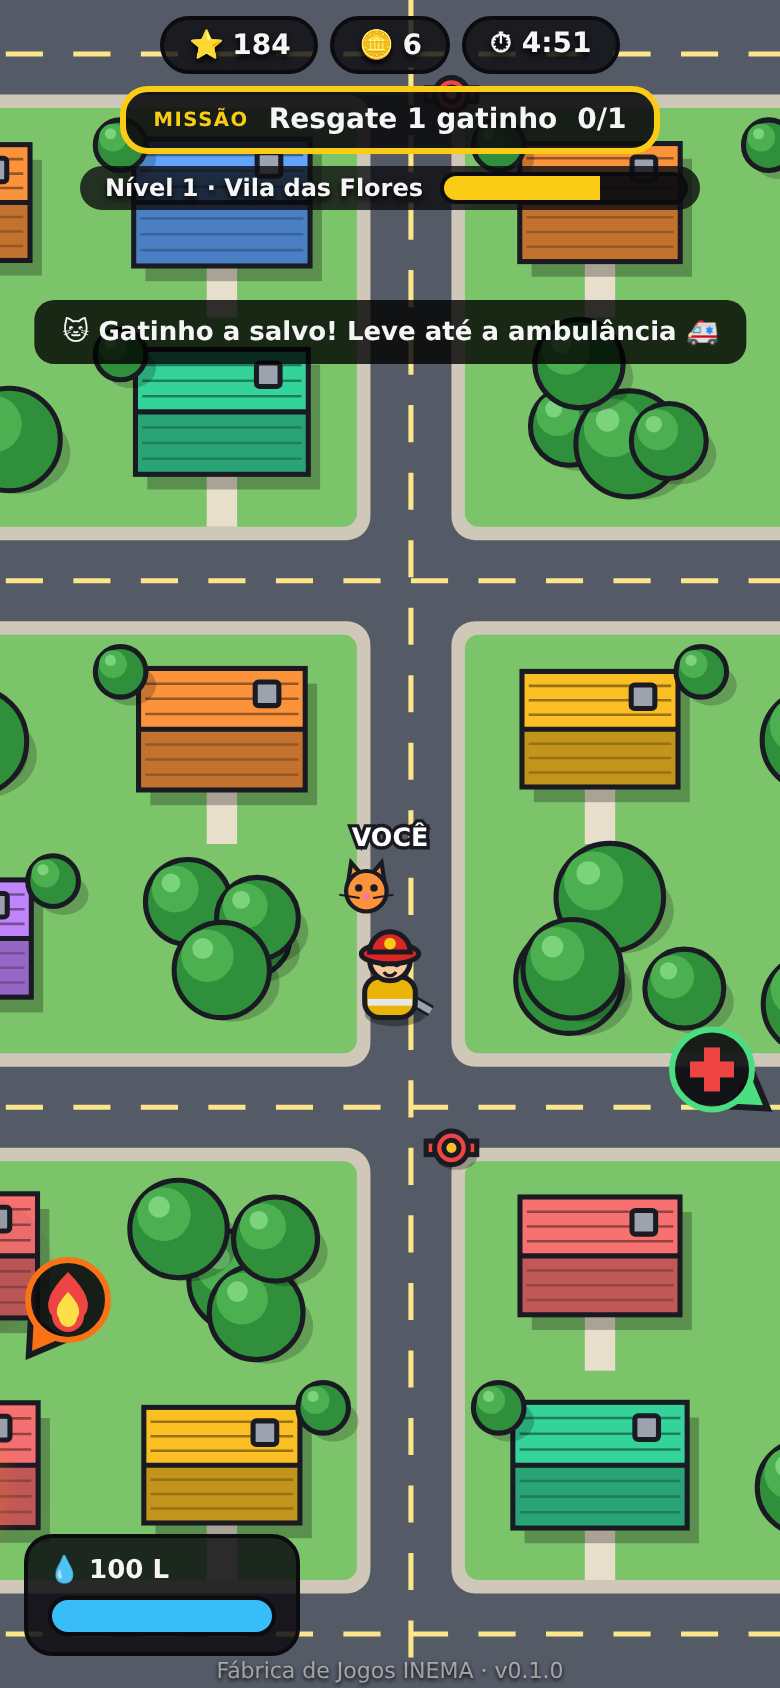
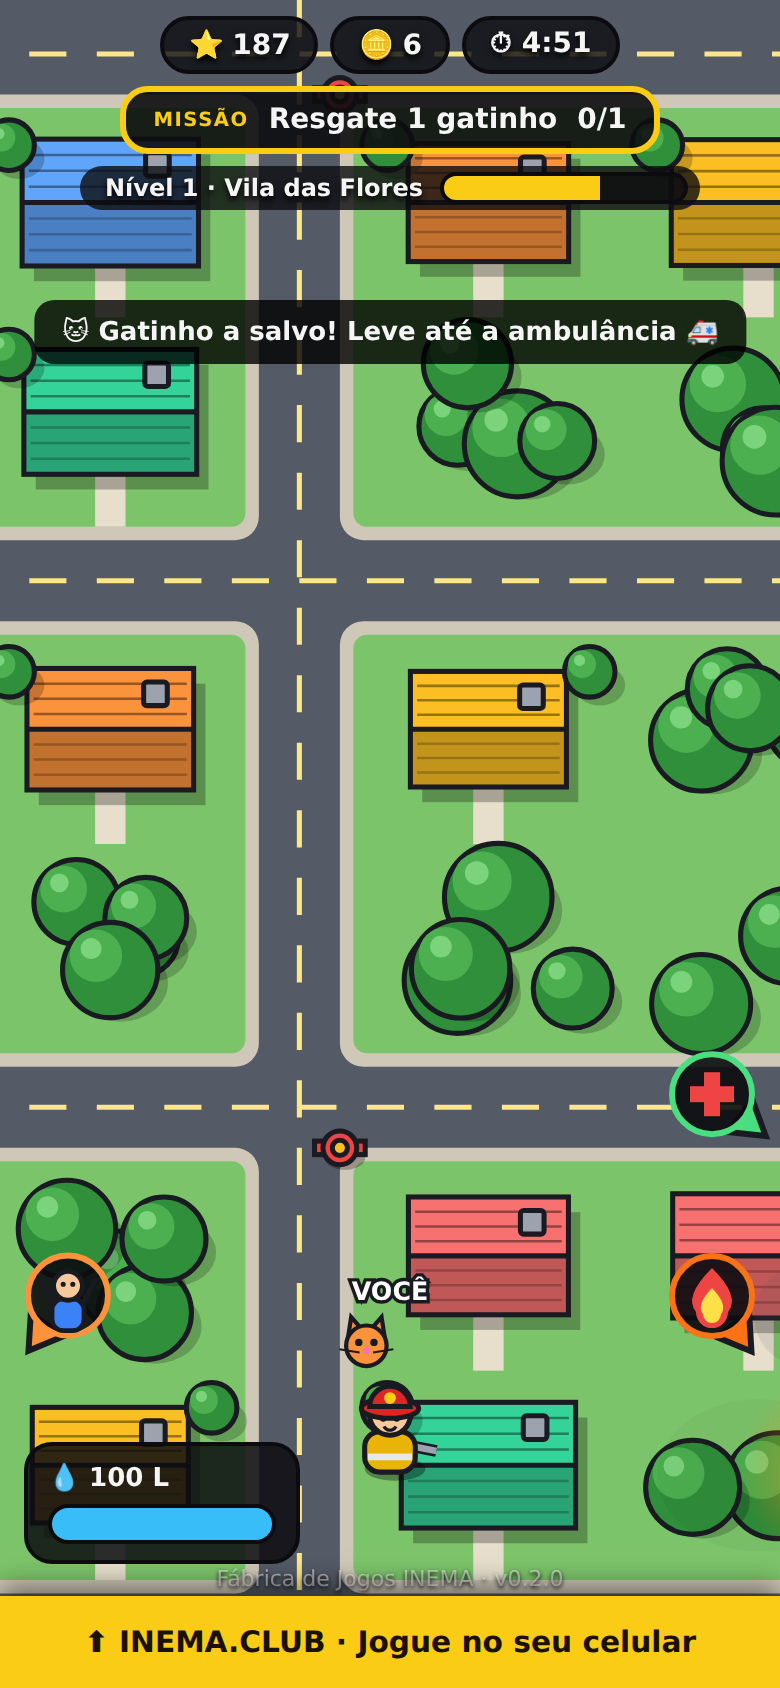
bombeiro v0.2.0: painel INEMA.CLUB + QR embaixo do jogo

diff --git a/10-fabrica-de-jogos/jogos/seja-um-bombeiro/index.html b/10-fabrica-de-jogos/jogos/seja-um-bombeiro/index.html
@@ -6,11 +6,14 @@
 <title>Seja um Bombeiro — Fábrica de Jogos INEMA</title>
 <style>
   :root { --amarelo:#FACC15; --preto:#0c0c10; --texto:#f5f5f5; --agua:#38bdf8 }
-  html,body { margin:0; height:100%; background:var(--preto); color:var(--texto); overflow:hidden;
-              touch-action:none; user-select:none; -webkit-user-select:none; font-family:system-ui,-apple-system,"Segoe UI",sans-serif }
-  canvas { display:block; width:100vw; height:100vh }
+  /* a página rola (para mostrar o painel INEMA.CLUB embaixo), mas o jogo fica fixo atrás */
+  html { overflow-x:hidden; overflow-y:auto; overscroll-behavior:none }
+  html,body { margin:0; background:var(--preto); color:var(--texto);
+              touch-action:pan-y; user-select:none; -webkit-user-select:none; font-family:system-ui,-apple-system,"Segoe UI",sans-serif }
+  /* só o canvas trava o gesto: arrastar nele move o bombeiro, não rola a página */
+  #c { display:block; position:fixed; inset:0; width:100vw; height:100vh; touch-action:none }
   /* ---- placar no topo ---- */
-  #hud { position:fixed; top:8px; left:8px; right:8px; display:flex; flex-direction:column; align-items:center; gap:6px; pointer-events:none }
+  #hud { position:fixed; top:8px; left:8px; right:8px; display:flex; flex-direction:column; align-items:center; gap:6px; pointer-events:none; z-index:2 }
   #hud .linha { display:flex; gap:6px; justify-content:center; flex-wrap:wrap }
   .pilula { background:#0c0c10cc; border:2px solid #0c0c10; border-radius:999px; padding:4px 12px; font-weight:800;
             font-size:clamp(14px,2.2vw,20px); text-shadow:0 2px 3px #000; white-space:nowrap }
@@ -23,15 +26,15 @@
   #xp { background:#0c0c10cc; border-radius:999px; padding:3px 6px 3px 12px; display:flex; align-items:center; gap:8px; font-weight:800; font-size:clamp(12px,1.9vw,16px); text-shadow:0 2px 3px #000 }
   .barra { width:clamp(120px,26vw,260px); height:12px; background:#0c0c10cc; border:2px solid #0c0c10; border-radius:999px; overflow:hidden }
   .barra i { display:block; height:100%; width:0; background:var(--amarelo); transition:width .25s }
-  /* ---- tanque de água (embaixo à esquerda) ---- */
-  #tanque { position:fixed; left:12px; bottom:16px; background:#0c0c10d9; border:2px solid #0c0c10; border-radius:14px; padding:8px 10px;
+  /* ---- tanque de água (embaixo à esquerda, acima da faixa amarela de 46 px) ---- */
+  #tanque { position:fixed; left:12px; bottom:62px; z-index:2; background:#0c0c10d9; border:2px solid #0c0c10; border-radius:14px; padding:8px 10px;
             font-weight:800; font-size:clamp(13px,2vw,17px); pointer-events:none; display:flex; flex-direction:column; gap:5px }
   #tanque .barra { width:clamp(110px,22vw,200px); height:16px }
   #tanque .barra i { background:var(--agua) }
   #tanque.vazio { border-color:#ef4444; animation:pisca .8s infinite }
   @keyframes pisca { 50%{ background:#7f1d1dd9 } }
-  /* ---- botões (embaixo à direita) ---- */
-  #botoes { position:fixed; right:12px; bottom:16px; display:flex; flex-direction:column; align-items:flex-end; gap:10px }
+  /* ---- botões (embaixo à direita, acima da faixa amarela) ---- */
+  #botoes { position:fixed; right:12px; bottom:62px; z-index:2; display:flex; flex-direction:column; align-items:flex-end; gap:10px }
   .btn { background:var(--amarelo); color:#1a1206; border:0; border-radius:12px; font-weight:800;
          padding:12px 16px; font-size:clamp(14px,2vw,17px); cursor:pointer; box-shadow:0 4px 0 #a16207 }
   .btn:disabled { background:#555; color:#bbb; box-shadow:none }
@@ -54,7 +57,22 @@
   #banner.on { opacity:1; transform:translate(-50%,-50%) scale(1) }
   #banner b { display:block; font-size:clamp(40px,9vw,80px); color:var(--amarelo); -webkit-text-stroke:3px #0c0c10; text-shadow:0 5px 0 #0c0c10 }
   #banner span { display:inline-block; margin-top:6px; background:#0c0c10e6; border-radius:12px; padding:8px 14px; font-weight:800; font-size:clamp(16px,3vw,24px) }
-  #rodape { position:fixed; left:0; right:0; bottom:2px; text-align:center; font-size:11px; color:#ffffff88; pointer-events:none; text-shadow:0 1px 2px #000 }
+  #rodape { position:fixed; left:0; right:0; bottom:48px; z-index:2; text-align:center; font-size:11px; color:#ffffff88; pointer-events:none; text-shadow:0 1px 2px #000 }
+  /* ---- painel INEMA.CLUB embaixo do jogo (toque na faixa amarela ou deslize a tela para cima) ---- */
+  #rolagem { position:relative; z-index:4; pointer-events:none }
+  #espaco { height:calc(100vh - 46px); height:calc(100dvh - 46px) }
+  #painel { pointer-events:auto; background:var(--preto); touch-action:pan-y; text-align:center; padding-bottom:28px }
+  #puxador { display:block; width:100%; height:46px; border:0; background:var(--amarelo); color:#1a1206; cursor:pointer;
+             font:800 clamp(14px,3.8vw,18px)/46px Sora,system-ui,sans-serif; box-shadow:0 -4px 14px #0008 }
+  #painel .faixa-g { background:var(--amarelo); color:#1a1206; font:800 clamp(24px,7vw,44px)/1.15 Sora,system-ui,sans-serif;
+                     padding:22px 16px 26px; border-top:4px solid var(--preto) }
+  #painel .faixa-g b { display:inline-block; background:var(--preto); color:var(--amarelo); padding:2px 14px; border-radius:10px; margin-top:8px }
+  #painel .qr-g { display:inline-block; background:#fff; color:#111; border-radius:16px; padding:14px 14px 10px; margin:22px 16px 10px }
+  #painel .qr-g svg { width:min(64vw,260px); height:auto; display:block }
+  #painel .qr-g p { margin:8px 0 0; font-weight:800 }
+  #painel .acoes-p { display:flex; gap:10px; justify-content:center; flex-wrap:wrap; margin:12px 16px }
+  #painel .txt-p { color:#d4d4d8; max-width:520px; margin:10px auto 0; padding:0 16px; line-height:1.5 }
+  #painel a { color:var(--amarelo) }
   .hidden { display:none !important }
   pre { text-align:left; background:#0b0b0f; padding:10px; border-radius:10px; overflow:auto; max-height:40vh; font-size:12px; white-space:pre-wrap }
 </style>
@@ -73,12 +91,29 @@
 </div>
 <div id="aviso"></div>
 <div id="banner"><b id="banner-t"></b><span id="banner-s"></span></div>
-<div id="rodape">Fábrica de Jogos INEMA · v0.1.0</div>
+<div id="rodape">Fábrica de Jogos INEMA · v0.2.0</div>
+<div id="rolagem">
+  <div id="espaco"></div>
+  <div id="painel">
+    <button id="puxador">⬆ INEMA.CLUB · Jogue no seu celular</button>
+    <div class="faixa-g">Aprenda a criar jogos com IA<br>de graça<br><b>INEMA.CLUB</b></div>
+    <div class="qr-g"><div id="qr-painel"></div><p>📱 Jogue no seu celular</p></div>
+    <div class="acoes-p">
+      <button class="btn" id="p-baixar">⬇ Baixar o jogo</button>
+      <button class="btn sec" id="p-voltar">⬆ Voltar ao jogo</button>
+    </div>
+    <p class="txt-p">Baixe o jogo, abra num editor de texto e mude o <b>CONFIG</b>: velocidade, tanque, missões e bairros.
+      Depois peça para uma IA criar um cachorro bombeiro, bairros e veículos novos.
+      Mais jogos na <a href="../../">Fábrica de Jogos INEMA</a> · cursos grátis em <a href="https://inema.club" target="_blank" rel="noopener">inema.club</a></p>
+  </div>
+</div>
 <div id="tela"><div class="caixa" id="tela-conteudo"></div></div>
+<!-- QR code com o endereço do jogo (vem do arquivo qr-jogo.svg; fica aqui dentro para funcionar sem internet) -->
+<template id="tpl-qr"><svg version="1.1" viewBox="0 0 41 41" xmlns="http://www.w3.org/2000/svg"><path d="M2,2H3V3H2zM3,2H4V3H3zM4,2H5V3H4zM5,2H6V3H5zM6,2H7V3H6zM7,2H8V3H7zM8,2H9V3H8zM10,2H11V3H10zM11,2H12V3H11zM12,2H13V3H12zM15,2H16V3H15zM16,2H17V3H16zM17,2H18V3H17zM18,2H19V3H18zM19,2H20V3H19zM20,2H21V3H20zM24,2H25V3H24zM26,2H27V3H26zM27,2H28V3H27zM28,2H29V3H28zM32,2H33V3H32zM33,2H34V3H33zM34,2H35V3H34zM35,2H36V3H35zM36,2H37V3H36zM37,2H38V3H37zM38,2H39V3H38zM2,3H3V4H2zM8,3H9V4H8zM15,3H16V4H15zM16,3H17V4H16zM17,3H18V4H17zM18,3H19V4H18zM20,3H21V4H20zM22,3H23V4H22zM26,3H27V4H26zM27,3H28V4H27zM32,3H33V4H32zM38,3H39V4H38zM2,4H3V5H2zM4,4H5V5H4zM5,4H6V5H5zM6,4H7V5H6zM8,4H9V5H8zM10,4H11V5H10zM11,4H12V5H11zM14,4H15V5H14zM17,4H18V5H17zM19,4H20V5H19zM20,4H21V5H20zM21,4H22V5H21zM23,4H24V5H23zM25,4H26V5H25zM26,4H27V5H26zM27,4H28V5H27zM30,4H31V5H30zM32,4H33V5H32zM34,4H35V5H34zM35,4H36V5H35zM36,4H37V5H36zM38,4H39V5H38zM2,5H3V6H2zM4,5H5V6H4zM5,5H6V6H5zM6,5H7V6H6zM8,5H9V6H8zM11,5H12V6H11zM13,5H14V6H13zM15,5H16V6H15zM17,5H18V6H17zM19,5H20V6H19zM20,5H21V6H20zM22,5H23V6H22zM23,5H24V6H23zM24,5H25V6H24zM27,5H28V6H27zM29,5H30V6H29zM30,5H31V6H30zM32,5H33V6H32zM34,5H35V6H34zM35,5H36V6H35zM36,5H37V6H36zM38,5H39V6H38zM2,6H3V7H2zM4,6H5V7H4zM5,6H6V7H5zM6,6H7V7H6zM8,6H9V7H8zM12,6H13V7H12zM15,6H16V7H15zM20,6H21V7H20zM24,6H25V7H24zM28,6H29V7H28zM32,6H33V7H32zM34,6H35V7H34zM35,6H36V7H35zM36,6H37V7H36zM38,6H39V7H38zM2,7H3V8H2zM8,7H9V8H8zM10,7H11V8H10zM12,7H13V8H12zM14,7H15V8H14zM15,7H16V8H15zM16,7H17V8H16zM17,7H18V8H17zM22,7H23V8H22zM24,7H25V8H24zM27,7H28V8H27zM28,7H29V8H28zM32,7H33V8H32zM38,7H39V8H38zM2,8H3V9H2zM3,8H4V9H3zM4,8H5V9H4zM5,8H6V9H5zM6,8H7V9H6zM7,8H8V9H7zM8,8H9V9H8zM10,8H11V9H10zM12,8H13V9H12zM14,8H15V9H14zM16,8H17V9H16zM18,8H19V9H18zM20,8H21V9H20zM22,8H23V9H22zM24,8H25V9H24zM26,8H27V9H26zM28,8H29V9H28zM30,8H31V9H30zM32,8H33V9H32zM33,8H34V9H33zM34,8H35V9H34zM35,8H36V9H35zM36,8H37V9H36zM37,8H38V9H37zM38,8H39V9H38zM11,9H12V10H11zM14,9H15V10H14zM17,9H18V10H17zM18,9H19V10H18zM20,9H21V10H20zM24,9H25V10H24zM25,9H26V10H25zM26,9H27V10H26zM28,9H29V10H28zM30,9H31V10H30zM2,10H3V11H2zM4,10H5V11H4zM8,10H9V11H8zM9,10H10V11H9zM12,10H13V11H12zM13,10H14V11H13zM21,10H22V11H21zM22,10H23V11H22zM26,10H27V11H26zM29,10H30V11H29zM30,10H31V11H30zM33,10H34V11H33zM36,10H37V11H36zM38,10H39V11H38zM3,11H4V12H3zM4,11H5V12H4zM6,11H7V12H6zM10,11H11V12H10zM12,11H13V12H12zM15,11H16V12H15zM20,11H21V12H20zM21,11H22V12H21zM22,11H23V12H22zM23,11H24V12H23zM24,11H25V12H24zM25,11H26V12H25zM26,11H27V12H26zM27,11H28V12H27zM29,11H30V12H29zM30,11H31V12H30zM32,11H33V12H32zM33,11H34V12H33zM36,11H37V12H36zM37,11H38V12H37zM38,11H39V12H38zM2,12H3V13H2zM4,12H5V13H4zM6,12H7V13H6zM7,12H8V13H7zM8,12H9V13H8zM10,12H11V13H10zM11,12H12V13H11zM14,12H15V13H14zM15,12H16V13H15zM16,12H17V13H16zM17,12H18V13H17zM19,12H20V13H19zM21,12H22V13H21zM22,12H23V13H22zM25,12H26V13H25zM26,12H27V13H26zM29,12H30V13H29zM31,12H32V13H31zM34,12H35V13H34zM36,12H37V13H36zM38,12H39V13H38zM6,13H7V14H6zM9,13H10V14H9zM10,13H11V14H10zM12,13H13V14H12zM15,13H16V14H15zM20,13H21V14H20zM21,13H22V14H21zM24,13H25V14H24zM25,13H26V14H25zM29,13H30V14H29zM30,13H31V14H30zM31,13H32V14H31zM33,13H34V14H33zM34,13H35V14H34zM35,13H36V14H35zM3,14H4V15H3zM7,14H8V15H7zM8,14H9V15H8zM9,14H10V15H9zM10,14H11V15H10zM11,14H12V15H11zM16,14H17V15H16zM17,14H18V15H17zM18,14H19V15H18zM21,14H22V15H21zM22,14H23V15H22zM24,14H25V15H24zM26,14H27V15H26zM30,14H31V15H30zM32,14H33V15H32zM33,14H34V15H33zM35,14H36V15H35zM38,14H39V15H38zM2,15H3V16H2zM3,15H4V16H3zM4,15H5V16H4zM10,15H11V16H10zM11,15H12V16H11zM12,15H13V16H12zM15,15H16V16H15zM17,15H18V16H17zM18,15H19V16H18zM21,15H22V16H21zM22,15H23V16H22zM25,15H26V16H25zM29,15H30V16H29zM30,15H31V16H30zM32,15H33V16H32zM33,15H34V16H33zM35,15H36V16H35zM38,15H39V16H38zM2,16H3V17H2zM4,16H5V17H4zM8,16H9V17H8zM9,16H10V17H9zM10,16H11V17H10zM14,16H15V17H14zM17,16H18V17H17zM18,16H19V17H18zM20,16H21V17H20zM21,16H22V17H21zM22,16H23V17H22zM23,16H24V17H23zM25,16H26V17H25zM26,16H27V17H26zM29,16H30V17H29zM30,16H31V17H30zM31,16H32V17H31zM35,16H36V17H35zM36,16H37V17H36zM38,16H39V17H38zM2,17H3V18H2zM3,17H4V18H3zM5,17H6V18H5zM6,17H7V18H6zM7,17H8V18H7zM9,17H10V18H9zM11,17H12V18H11zM13,17H14V18H13zM15,17H16V18H15zM16,17H17V18H16zM17,17H18V18H17zM18,17H19V18H18zM21,17H22V18H21zM24,17H25V18H24zM25,17H26V18H25zM28,17H29V18H28zM30,17H31V18H30zM32,17H33V18H32zM33,17H34V18H33zM34,17H35V18H34zM35,17H36V18H35zM38,17H39V18H38zM2,18H3V19H2zM7,18H8V19H7zM8,18H9V19H8zM11,18H12V19H11zM12,18H13V19H12zM14,18H15V19H14zM17,18H18V19H17zM18,18H19V19H18zM21,18H22V19H21zM22,18H23V19H22zM25,18H26V19H25zM26,18H27V19H26zM29,18H30V19H29zM30,18H31V19H30zM32,18H33V19H32zM33,18H34V19H33zM37,18H38V19H37zM38,18H39V19H38zM2,19H3V20H2zM3,19H4V20H3zM4,19H5V20H4zM6,19H7V20H6zM7,19H8V20H7zM9,19H10V20H9zM10,19H11V20H10zM11,19H12V20H11zM12,19H13V20H12zM18,19H19V20H18zM21,19H22V20H21zM22,19H23V20H22zM23,19H24V20H23zM25,19H26V20H25zM26,19H27V20H26zM29,19H30V20H29zM32,19H33V20H32zM37,19H38V20H37zM38,19H39V20H38zM2,20H3V21H2zM3,20H4V21H3zM4,20H5V21H4zM7,20H8V21H7zM8,20H9V21H8zM10,20H11V21H10zM13,20H14V21H13zM18,20H19V21H18zM20,20H21V21H20zM21,20H22V21H21zM25,20H26V21H25zM29,20H30V21H29zM34,20H35V21H34zM38,20H39V21H38zM2,21H3V22H2zM3,21H4V22H3zM4,21H5V22H4zM5,21H6V22H5zM11,21H12V22H11zM12,21H13V22H12zM13,21H14V22H13zM14,21H15V22H14zM17,21H18V22H17zM18,21H19V22H18zM20,21H21V22H20zM22,21H23V22H22zM24,21H25V22H24zM26,21H27V22H26zM28,21H29V22H28zM29,21H30V22H29zM32,21H33V22H32zM33,21H34V22H33zM35,21H36V22H35zM3,22H4V23H3zM4,22H5V23H4zM5,22H6V23H5zM6,22H7V23H6zM8,22H9V23H8zM9,22H10V23H9zM10,22H11V23H10zM16,22H17V23H16zM18,22H19V23H18zM20,22H21V23H20zM25,22H26V23H25zM26,22H27V23H26zM29,22H30V23H29zM32,22H33V23H32zM33,22H34V23H33zM35,22H36V23H35zM37,22H38V23H37zM2,23H3V24H2zM10,23H11V24H10zM11,23H12V24H11zM12,23H13V24H12zM13,23H14V24H13zM16,23H17V24H16zM17,23H18V24H17zM18,23H19V24H18zM19,23H20V24H19zM21,23H22V24H21zM22,23H23V24H22zM23,23H24V24H23zM25,23H26V24H25zM26,23H27V24H26zM27,23H28V24H27zM29,23H30V24H29zM30,23H31V24H30zM32,23H33V24H32zM37,23H38V24H37zM38,23H39V24H38zM2,24H3V25H2zM5,24H6V25H5zM6,24H7V25H6zM7,24H8V25H7zM8,24H9V25H8zM9,24H10V25H9zM10,24H11V25H10zM13,24H14V25H13zM14,24H15V25H14zM15,24H16V25H15zM17,24H18V25H17zM21,24H22V25H21zM22,24H23V25H22zM23,24H24V25H23zM25,24H26V25H25zM29,24H30V25H29zM35,24H36V25H35zM36,24H37V25H36zM38,24H39V25H38zM2,25H3V26H2zM4,25H5V26H4zM5,25H6V26H5zM10,25H11V26H10zM11,25H12V26H11zM12,25H13V26H12zM16,25H17V26H16zM18,25H19V26H18zM20,25H21V26H20zM22,25H23V26H22zM24,25H25V26H24zM26,25H27V26H26zM28,25H29V26H28zM31,25H32V26H31zM32,25H33V26H32zM33,25H34V26H33zM34,25H35V26H34zM35,25H36V26H35zM38,25H39V26H38zM3,26H4V27H3zM5,26H6V27H5zM6,26H7V27H6zM8,26H9V27H8zM11,26H12V27H11zM12,26H13V27H12zM13,26H14V27H13zM14,26H15V27H14zM16,26H17V27H16zM20,26H21V27H20zM21,26H22V27H21zM22,26H23V27H22zM24,26H25V27H24zM25,26H26V27H25zM26,26H27V27H26zM29,26H30V27H29zM32,26H33V27H32zM33,26H34V27H33zM37,26H38V27H37zM38,26H39V27H38zM5,27H6V28H5zM7,27H8V28H7zM9,27H10V28H9zM15,27H16V28H15zM19,27H20V28H19zM21,27H22V28H21zM22,27H23V28H22zM23,27H24V28H23zM25,27H26V28H25zM26,27H27V28H26zM27,27H28V28H27zM28,27H29V28H28zM29,27H30V28H29zM30,27H31V28H30zM32,27H33V28H32zM33,27H34V28H33zM38,27H39V28H38zM2,28H3V29H2zM3,28H4V29H3zM5,28H6V29H5zM7,28H8V29H7zM8,28H9V29H8zM11,28H12V29H11zM12,28H13V29H12zM13,28H14V29H13zM14,28H15V29H14zM16,28H17V29H16zM17,28H18V29H17zM21,28H22V29H21zM23,28H24V29H23zM25,28H26V29H25zM27,28H28V29H27zM28,28H29V29H28zM29,28H30V29H29zM32,28H33V29H32zM33,28H34V29H33zM34,28H35V29H34zM36,28H37V29H36zM38,28H39V29H38zM4,29H5V30H4zM6,29H7V30H6zM7,29H8V30H7zM9,29H10V30H9zM12,29H13V30H12zM13,29H14V30H13zM14,29H15V30H14zM15,29H16V30H15zM16,29H17V30H16zM20,29H21V30H20zM21,29H22V30H21zM22,29H23V30H22zM24,29H25V30H24zM25,29H26V30H25zM28,29H29V30H28zM29,29H30V30H29zM30,29H31V30H30zM31,29H32V30H31zM33,29H34V30H33zM2,30H3V31H2zM3,30H4V31H3zM4,30H5V31H4zM5,30H6V31H5zM8,30H9V31H8zM11,30H12V31H11zM14,30H15V31H14zM15,30H16V31H15zM16,30H17V31H16zM17,30H18V31H17zM18,30H19V31H18zM20,30H21V31H20zM25,30H26V31H25zM30,30H31V31H30zM31,30H32V31H31zM32,30H33V31H32zM33,30H34V31H33zM34,30H35V31H34zM35,30H36V31H35zM37,30H38V31H37zM38,30H39V31H38zM10,31H11V32H10zM11,31H12V32H11zM12,31H13V32H12zM13,31H14V32H13zM14,31H15V32H14zM15,31H16V32H15zM17,31H18V32H17zM19,31H20V32H19zM20,31H21V32H20zM21,31H22V32H21zM22,31H23V32H22zM23,31H24V32H23zM25,31H26V32H25zM26,31H27V32H26zM28,31H29V32H28zM30,31H31V32H30zM34,31H35V32H34zM38,31H39V32H38zM2,32H3V33H2zM3,32H4V33H3zM4,32H5V33H4zM5,32H6V33H5zM6,32H7V33H6zM7,32H8V33H7zM8,32H9V33H8zM10,32H11V33H10zM13,32H14V33H13zM14,32H15V33H14zM16,32H17V33H16zM17,32H18V33H17zM18,32H19V33H18zM21,32H22V33H21zM23,32H24V33H23zM25,32H26V33H25zM26,32H27V33H26zM28,32H29V33H28zM30,32H31V33H30zM32,32H33V33H32zM34,32H35V33H34zM38,32H39V33H38zM2,33H3V34H2zM8,33H9V34H8zM11,33H12V34H11zM14,33H15V34H14zM15,33H16V34H15zM20,33H21V34H20zM21,33H22V34H21zM24,33H25V34H24zM28,33H29V34H28zM29,33H30V34H29zM30,33H31V34H30zM34,33H35V34H34zM37,33H38V34H37zM2,34H3V35H2zM4,34H5V35H4zM5,34H6V35H5zM6,34H7V35H6zM8,34H9V35H8zM13,34H14V35H13zM14,34H15V35H14zM15,34H16V35H15zM16,34H17V35H16zM17,34H18V35H17zM18,34H19V35H18zM19,34H20V35H19zM20,34H21V35H20zM21,34H22V35H21zM22,34H23V35H22zM28,34H29V35H28zM29,34H30V35H29zM30,34H31V35H30zM31,34H32V35H31zM32,34H33V35H32zM33,34H34V35H33zM34,34H35V35H34zM37,34H38V35H37zM38,34H39V35H38zM2,35H3V36H2zM4,35H5V36H4zM5,35H6V36H5zM6,35H7V36H6zM8,35H9V36H8zM11,35H12V36H11zM15,35H16V36H15zM18,35H19V36H18zM21,35H22V36H21zM22,35H23V36H22zM23,35H24V36H23zM25,35H26V36H25zM26,35H27V36H26zM29,35H30V36H29zM31,35H32V36H31zM34,35H35V36H34zM35,35H36V36H35zM36,35H37V36H36zM37,35H38V36H37zM2,36H3V37H2zM4,36H5V37H4zM5,36H6V37H5zM6,36H7V37H6zM8,36H9V37H8zM10,36H11V37H10zM11,36H12V37H11zM12,36H13V37H12zM14,36H15V37H14zM15,36H16V37H15zM16,36H17V37H16zM18,36H19V37H18zM19,36H20V37H19zM20,36H21V37H20zM21,36H22V37H21zM22,36H23V37H22zM25,36H26V37H25zM27,36H28V37H27zM31,36H32V37H31zM33,36H34V37H33zM34,36H35V37H34zM36,36H37V37H36zM38,36H39V37H38zM2,37H3V38H2zM8,37H9V38H8zM12,37H13V38H12zM13,37H14V38H13zM14,37H15V38H14zM17,37H18V38H17zM18,37H19V38H18zM20,37H21V38H20zM21,37H22V38H21zM24,37H25V38H24zM25,37H26V38H25zM26,37H27V38H26zM30,37H31V38H30zM31,37H32V38H31zM34,37H35V38H34zM35,37H36V38H35zM2,38H3V39H2zM3,38H4V39H3zM4,38H5V39H4zM5,38H6V39H5zM6,38H7V39H6zM7,38H8V39H7zM8,38H9V39H8zM10,38H11V39H10zM14,38H15V39H14zM16,38H17V39H16zM20,38H21V39H20zM21,38H22V39H21zM26,38H27V39H26zM30,38H31V39H30zM33,38H34V39H33zM35,38H36V39H35zM38,38H39V39H38z" id="qr-path" fill="#000000" fill-opacity="1" fill-rule="nonzero" stroke="none" /></svg></template>
 
 <script>
 /* =====================================================================
-   SEJA UM BOMBEIRO — Fábrica de Jogos INEMA (versão 0.1.0)
+   SEJA UM BOMBEIRO — Fábrica de Jogos INEMA (versão 0.2.0)
    ---------------------------------------------------------------------
    QUER CRIAR A SUA VERSÃO? Comece mudando os valores do CONFIG abaixo.
    Salve o arquivo e abra de novo no navegador para ver o efeito.
@@ -166,11 +201,17 @@ const CONFIG = {
 };
 /* ===================== daqui para baixo é o motor ===================== */
 
-const VERSAO = "0.1.0";
+const VERSAO = "0.2.0";
 const W = 1600, H = 1000;                 // tamanho do mundo (o bairro)
-const FONTE_HTML = "<!doctype html>\n" + document.documentElement.outerHTML;
+const FONTE_HTML = "<!doctype html>\n" + document.documentElement.outerHTML; // cópia do jogo para o botão "Baixar"
 const cv = document.getElementById("c"), ctx = cv.getContext("2d");
 const $ = id => document.getElementById(id);
+const QR_SVG = $("tpl-qr").innerHTML;     // o desenho do QR code (fica no <template> lá em cima)
+// painel embaixo do jogo: a faixa amarela (puxador) sobe o painel; "Voltar ao jogo" desce
+$("qr-painel").innerHTML = QR_SVG;
+$("puxador").onclick = () => scrollTo({ top: $("painel").offsetTop, behavior: "smooth" });
+$("p-voltar").onclick = () => scrollTo({ top: 0, behavior: "smooth" });
+$("p-baixar").onclick = () => baixar();
 const params = new URLSearchParams(location.search);
 const DEMO = params.has("demo");          // ?demo=1 → o jogo joga sozinho (vitrine do estande)
 const TINTA = "#1a1a22";                  // cor do contorno de tudo
@@ -830,10 +871,10 @@ function setas() {
     lista.push({ x: h.x, y: h.y, cor: "#38bdf8", icone: "agua" });
   }
   ctx.setTransform(1, 0, 0, 1, 0, 0);
-  const mx = 34 * dpr, myTop = 150 * dpr, myBot = 110 * dpr, cx = cv.width / 2, cy = cv.height / 2;
+  const mx = 34 * dpr, myTop = 150 * dpr, myBot = 156 * dpr, cx = cv.width / 2, cy = cv.height / 2;
   for (const o of lista) {
     const sx = (o.x - cam.x) * escala, sy = (o.y - cam.y) * escala;
-    if (sx > 0 && sx < cv.width && sy > myTop - 20 * dpr && sy < cv.height) continue; // à vista (fora do placar): sem seta
+    if (sx > 0 && sx < cv.width && sy > myTop - 20 * dpr && sy < cv.height - 46 * dpr) continue; // à vista (fora do placar): sem seta
     const dx = sx - cx, dy = sy - cy;
     const k = Math.min((cv.width / 2 - mx) / Math.abs(dx || 1e-6), (dy < 0 ? cy - myTop : cv.height - myBot - cy) / Math.abs(dy || 1e-6));
     const px = cx + dx * k, py = cy + dy * k, ang = Math.atan2(dy, dx), r = 20 * dpr;
